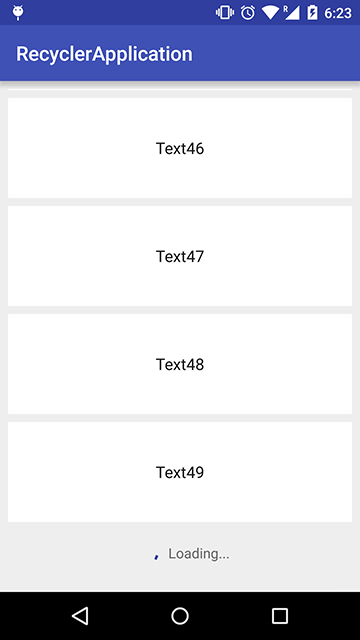
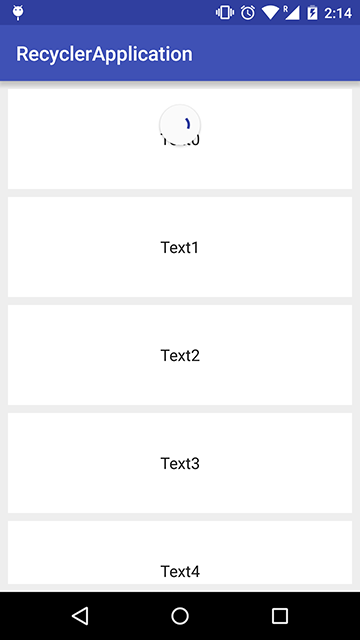
加入下拉刷新

diff --git a/app/src/main/java/cchao/org/recyclerapplication/ui/activity/MainActivity.java b/app/src/main/java/cchao/org/recyclerapplication/ui/activity/MainActivity.java
@@ -7,6 +7,7 @@ package cchao.org.recyclerapplication.ui.activity;
 import android.os.Bundle;
 import android.os.Handler;
 import android.os.Message;
+import android.support.v4.widget.SwipeRefreshLayout;
 import android.support.v7.app.AppCompatActivity;
 import android.support.v7.widget.DefaultItemAnimator;
 import android.support.v7.widget.LinearLayoutManager;
@@ -22,7 +23,7 @@ import cchao.org.recyclerapplication.decoration.DividerItemDecoration;
 import cchao.org.recyclerapplication.listener.OnLoadMoreListener;
 import cchao.org.recyclerapplication.listener.RecyclerItemClickListener;
 
-public class MainActivity extends AppCompatActivity implements Handler.Callback{
+public class MainActivity extends AppCompatActivity implements Handler.Callback, SwipeRefreshLayout.OnRefreshListener{
 
     private RecyclerView mRecyclerView;
 
@@ -34,11 +35,19 @@ public class MainActivity extends AppCompatActivity implements Handler.Callback{
 
     private Handler mHandler;
 
+    private SwipeRefreshLayout mSwipeRefreshLayout;
+
+    //添加底部item的id
+    private int footItemNum;
+
     @Override
     protected void onCreate(Bundle savedInstanceState) {
         super.onCreate(savedInstanceState);
         setContentView(R.layout.activity_main);
 
+        mSwipeRefreshLayout = (SwipeRefreshLayout) findViewById(R.id.swipeRefreshLayout);
+        mSwipeRefreshLayout.setOnRefreshListener(this);
+        mSwipeRefreshLayout.setColorSchemeResources(R.color.swiperefresh_one);
         mRecyclerView = (RecyclerView) findViewById(R.id.recyclerview);
         mHandler = new Handler(this);
         initRecycler();
@@ -73,15 +82,23 @@ public class MainActivity extends AppCompatActivity implements Handler.Callback{
             }
         }));
         mAdapter.setOnLoadMoreListener(new OnLoadMoreListener() {
+            //上拉自动加载
             @Override
             public void onLoadMore() {
                 dataset.add(null);
                 mAdapter.notifyItemInserted(dataset.size() - 1);
+                footItemNum = dataset.size() - 1;
                 new Thread(new Runnable() {
                     @Override
                     public void run() {
                         try {
                             Thread.sleep(3000);
+                            int start = dataset.size();
+                            int end = start + 10;
+
+                            for (int i = start + 1; i <= end; i++) {
+                                dataset.add("Text" + String.valueOf(i - 2));
+                            }
                         } catch (InterruptedException e) {
                             e.printStackTrace();
                         }
@@ -92,19 +109,42 @@ public class MainActivity extends AppCompatActivity implements Handler.Callback{
         });
     }
 
+    //下拉刷新
+    @Override
+    public void onRefresh() {
+        new Thread(new Runnable() {
+            @Override
+            public void run() {
+                try {
+                    Thread.sleep(3000);
+                    dataset.clear();
+                    for (int i = 0; i < 50; i++){
+                        dataset.add(i, "ChangeText" + i);
+                    }
+                } catch (InterruptedException e) {
+                    e.printStackTrace();
+                }
+                mHandler.sendEmptyMessage(2);
+            }
+        }).start();
+    }
+
+    @Override
     public boolean handleMessage(Message msg) {
         if (msg.what == 1) {
-            dataset.remove(dataset.size() - 1);
-            mAdapter.notifyItemRemoved(dataset.size());
-            int start = dataset.size();
-            int end = start + 10;
+            dataset.remove(footItemNum);
+            mAdapter.notifyItemRemoved(footItemNum + 1);
 
-            for (int i = start + 1; i <= end; i++) {
-                dataset.add("Text" + String.valueOf(i - 1));
-                mAdapter.notifyItemInserted(dataset.size());
-            }
+            mAdapter.notifyDataSetChanged();
             mAdapter.setLoaded();
+        } else if (msg.what == 2) {
+            mAdapter.notifyDataSetChanged();
+            mSwipeRefreshLayout.setRefreshing(false);
         }
         return false;
+    }
+
+    protected void onDestroy() {
+        super.onDestroy();
     }
 }

diff --git a/app/src/main/java/cchao/org/recyclerapplication/adapter/RecyclerAdapter.java b/app/src/main/java/cchao/org/recyclerapplication/adapter/RecyclerAdapter.java
@@ -2,6 +2,7 @@ package cchao.org.recyclerapplication.adapter;
 
 import android.support.v7.widget.LinearLayoutManager;
 import android.support.v7.widget.RecyclerView;
+import android.util.Log;
 import android.view.LayoutInflater;
 import android.view.View;
 import android.view.ViewGroup;
@@ -24,7 +25,7 @@ public class RecyclerAdapter extends RecyclerView.Adapter<RecyclerView.ViewHolde
     //数据集
     private ArrayList<String> mDataset;
 
-    private int visibleThreshold = 5;
+    private int visibleThreshold = 1;
     private int lastVisibleItem, totalItemCount;
     private boolean loading;
     private OnLoadMoreListener mOnLoadMoreListener;
@@ -37,7 +38,6 @@ public class RecyclerAdapter extends RecyclerView.Adapter<RecyclerView.ViewHolde
                 @Override
                 public void onScrolled(RecyclerView recyclerView, int dx, int dy) {
                     super.onScrolled(recyclerView, dx, dy);
-
                     totalItemCount = linearLayoutManager.getItemCount();
                     lastVisibleItem = linearLayoutManager.findLastVisibleItemPosition();
                     if (!loading && totalItemCount <= (lastVisibleItem + visibleThreshold)) {
@@ -80,7 +80,7 @@ public class RecyclerAdapter extends RecyclerView.Adapter<RecyclerView.ViewHolde
             FootViewHolder footViewHolder = new FootViewHolder(view);
             return  footViewHolder;
         }
-        return null;
+        throw new RuntimeException("Could not inflate layout!");
     }
 
     @Override

diff --git a/README.md b/README.md
@@ -1,5 +1,8 @@
 # RecyclerViewDemo
-RecyclerViewDemo
+自定义实现了上拉加载，使用SwipeRefreshLayout实现了下拉刷新
 ## 效果图
 ![image](https://github.com/shucc/RecyclerViewDemo/blob/master/images/one.png)
 ![image] (https://github.com/shucc/RecyclerViewDemo/blob/master/images/two.png)
+
+![image] (https://github.com/shucc/RecyclerViewDemo/blob/master/images/three.png)
+![image] (https://github.com/shucc/RecyclerViewDemo/blob/master/images/four.png)
